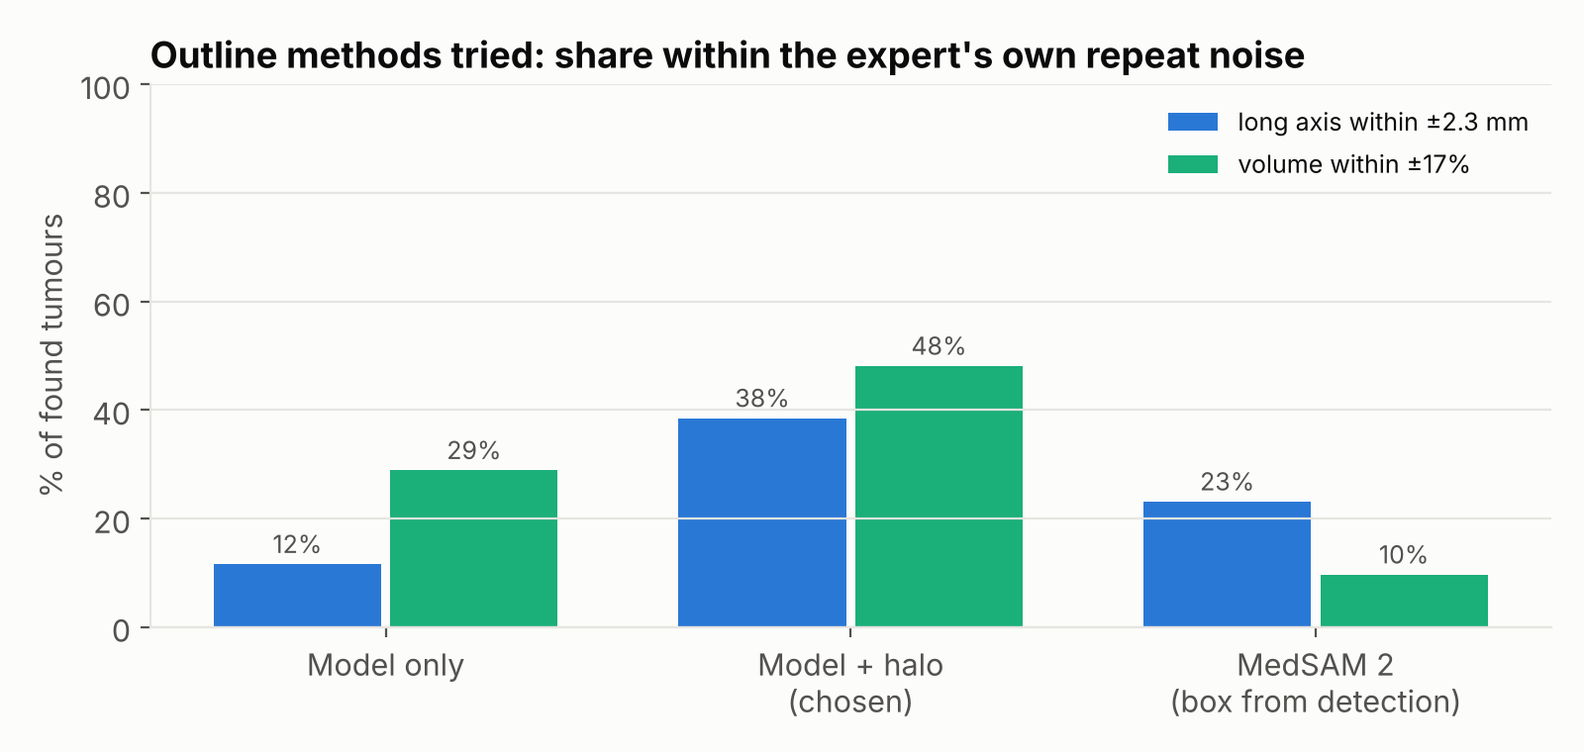
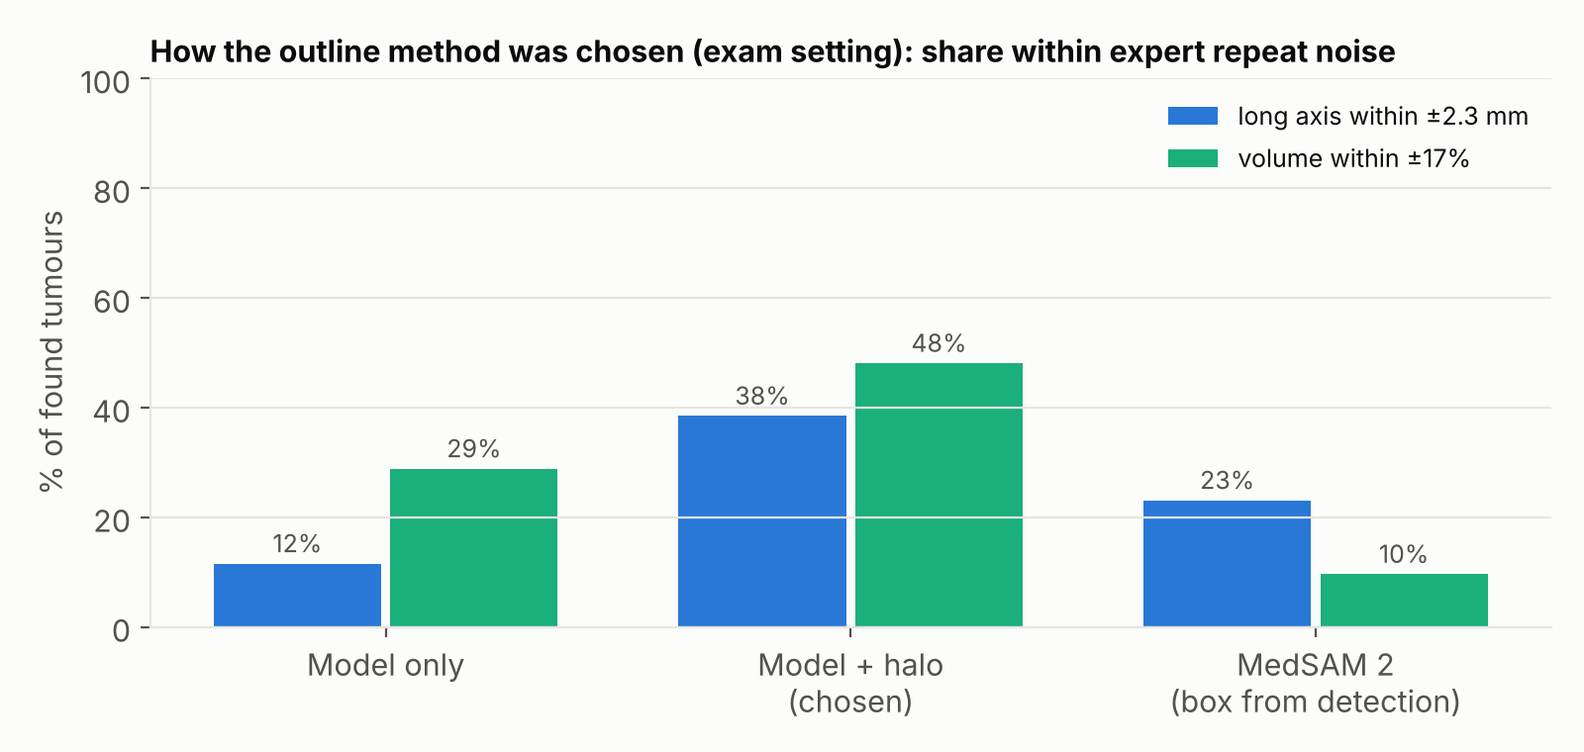
RESULTS: top = timing, quality, failure cases (Naomi's three asks) with one-line takeaways and sample sizes; quality numbers = shipped outline setting
Claude-Session: https://claude.ai/code/session_01Hn4GGnKQMt2qUCW2AmHyyQ

diff --git a/results/make_figures.py b/results/make_figures.py
@@ -63,10 +63,13 @@ def finding_figure(f):
     plt.close(fig)
 
 
-def error_figure(found, noise_mm, noise_pct):
-    """Per-tumour error vs the expert, with the expert's own repeat noise as a band."""
-    long_err = (found.halo_long - found.expert_long).sort_values().to_numpy()
-    vol_err = (100 * (found.halo_vol - found.expert_vol) / found.expert_vol).sort_values().to_numpy()
+def error_figure(noise_mm, noise_pct):
+    """Per-tumour error of the SHIPPED outline (halo scaled to core size) vs the expert,
+    with the expert's own repeat noise as a band. Source: halo_variants_found52.csv (52 found tumours)."""
+    v = pd.read_csv(HERE / "halo_variants_found52.csv")
+    long_err = v["scaled_dL"].sort_values().to_numpy()
+    vol_err = v["scaled_dV%"].sort_values().to_numpy()
+    n = len(v)
     fig, axes = plt.subplots(1, 2, figsize=(11, 4))
     for ax, err, band, unit, title in [
         (axes[0], long_err, noise_mm, "mm", "Long axis: AI draft minus expert"),
@@ -77,23 +80,23 @@ def error_figure(found, noise_mm, noise_pct):
         ax.axhspan(-band, band, color=BAND, zorder=0)
         ax.axhline(0, color=INK2, lw=0.8)
         ax.scatter(x[inside], err[inside], s=28, color=BLUE, zorder=3, edgecolor=SURFACE, linewidth=1.5,
-                   label=f"within expert repeat noise ({inside.sum()}/{len(err)})")
+                   label=f"within expert repeat noise ({inside.sum()}/{n})")
         ax.scatter(x[~inside], err[~inside], s=28, color=ORANGE, zorder=3, edgecolor=SURFACE, linewidth=1.5,
-                   label=f"outside ({(~inside).sum()}/{len(err)})")
+                   label=f"outside ({(~inside).sum()}/{n})")
         ax.set_xticks([])
-        ax.set_xlabel("52 found tumours, sorted by error")
+        ax.set_xlabel(f"{n} found tumours (28 patients), sorted by error")
         ax.set_ylabel(f"error ({unit})")
         ax.set_title(title, loc="left", fontweight="bold")
-        ax.text(len(err) - 1, -band, f"band = expert repeat noise ±{band:g} {unit}", ha="right", va="top",
+        ax.text(len(err) - 1, -band, f"band = expert repeat noise \u00b1{band:g} {unit}", ha="right", va="top",
                 fontsize=9, color=INK2)
         ax.legend(loc="upper left", frameon=False, fontsize=9)
-    fig.suptitle("The AI draft is close, but not yet as precise as the expert → Daniel confirms every outline",
-                 x=0.01, ha="left", fontsize=11, color=INK2)
+    fig.suptitle("AI first draft vs expert outline (RIDER, research use). Every draft is checked by the reviewer before it is recorded.",
+                 x=0.01, ha="left", fontsize=10.5, color=INK2)
     fig.tight_layout()
     fig.savefig(OUT / "outline_error_vs_expert.png", dpi=200)
     plt.close(fig)
-    return float(np.median(np.abs(long_err))), float(np.median(np.abs(vol_err))), \
-        float((np.abs(long_err) <= noise_mm).mean()), float((np.abs(vol_err) <= noise_pct).mean())
+    a_l, a_v = np.abs(long_err), np.abs(vol_err)
+    return float(np.median(a_l)), float(np.median(a_v)), int((a_l <= noise_mm).sum()), int((a_v <= noise_pct).sum()), n
 
 
 def method_figure(found, noise_mm, noise_pct):
@@ -115,7 +118,7 @@ def method_figure(found, noise_mm, noise_pct):
     ax.set_xticks(x, [m for m, _ in methods])
     ax.set_ylim(0, 100)
     ax.set_ylabel("% of found tumours")
-    ax.set_title("Outline methods tried: share within the expert's own repeat noise", loc="left", fontweight="bold")
+    ax.set_title("How the outline method was chosen (exam setting): share within expert repeat noise", loc="left", fontweight="bold", fontsize=11)
     ax.legend(frameon=False, loc="upper right", fontsize=9)
     fig.tight_layout()
     fig.savefig(OUT / "outline_methods.png", dpi=200)
@@ -210,15 +213,15 @@ def main():
     found = f[f.found == True]
     noise_mm, noise_pct, n_pairs = expert_noise()
     finding_figure(f)
-    lm, vm, lin, vin = error_figure(found, noise_mm, noise_pct)
+    lm, vm, lin, vin, nq = error_figure(noise_mm, noise_pct)
     method_figure(found, noise_mm, noise_pct)
     before, after, source = time_numbers()
     time_figure(before, after, source)
     print(f"time source: {source or 'none yet'}")
     ev = m[m.tumour_matched.notna()]
     print(f"expert repeat noise (n={n_pairs}): {noise_mm:.1f} mm, {noise_pct:.0f}%")
-    print(f"found {len(found)}/{len(f)}; long err median {lm:.1f} mm ({100*lin:.0f}% within); "
-          f"vol err median {vm:.0f}% ({100*vin:.0f}% within)")
+    print(f"found {len(found)}/{len(f)}; shipped outline: long err median {lm:.1f} mm ({lin}/{nq} within); "
+          f"vol err median {vm:.0f}% ({vin}/{nq} within)")
     print(f"matching: {int((ev.tumour_matched == True).sum())}/{len(ev)} tumour pairs matched; "
           f"registration error median {m.registration_error_mm.median():.1f} mm")
     def fmt(d, k):

diff --git a/RESULTS.md b/RESULTS.md
@@ -1,73 +1,63 @@
 # Results — LungMarker
 
-**Research use only. No clinical claims.**
-Status: draft, 16 Oct 2026. Engine numbers are final for the 59-scan exam; time numbers come from Daniel's own timed reviews, or the developer pilot if his don't arrive in time (marked **TBD**).
-All figures are made by `python results/make_figures.py` from the CSVs in `results/`, so they update when the results change.
+**Research use only. Not for clinical use. No clinical claims.**
+Status: draft, 18 Oct 2026. Quality and failure numbers come from a test on public data (RIDER Lung CT). Timing with the tool is pending (marked **TBD**).
+Figures are made by `python results/make_figures.py` from the CSVs in `results/`, so they update when the numbers change.
 
-## The question
+The lab asked for three things for its lab meeting and grant panel: **an honest timing comparison, a quality comparison, and clear failure cases.** They come first, in that order. Details follow below in the same order.
 
-The lab's measure of success (Naomi, Research Director): **cut Daniel's time per scan roughly in half, with no drop in measurement quality**, and results Naomi can open and defend.
-Daniel's log: **~39 min per baseline scan, ~55 per follow-up**. About **two-thirds of incoming scans are follow-ups** (Daniel), so the average incoming scan takes **~50 min** (⅓ × 39 + ⅔ × 55). Target: **~25 min per incoming scan**. His biggest time sink is **searching** for nodules (10–20 min, two full passes over 250–400 images), then matching follow-ups to the prior scan.
-So the tool attacks searching first, then outlining/measuring, matching and typing into his sheet.
+---
 
-## Summary
+## 1. Timing comparison
 
-| | Result | Verdict |
+> **Takeaway: not measured with the tool yet. Today a scan takes about 50 min on average (from 5 rows of Daniel's log); the lab's target is about 25.**
+
+| | Share of incoming scans | Before (Daniel's log) | After (with LungMarker) | Source of "after" |
+|---|---|---|---|---|
+| Baseline | ⅓ | 39 min (4 scans) | TBD | Daniel's own timed reviews (pending) |
+| Follow-up | ⅔ | 55 min (1 scan) | TBD | Daniel's own timed reviews (pending) |
+| **Per incoming scan (weighted)** | | **~50 min** | **TBD** | |
+
+- **"Before" is thin:** 5 rows of Daniel's log, and the follow-up figure is a single scan carrying two-thirds of the weight. The ⅔ follow-up share is Daniel's estimate.
+- **"After" comes from Daniel's own timed reviews** (he is timing them now). If they don't arrive before hand-in, we show a developer pilot instead and label it as an estimate, not a measurement of the real user.
+- Both clocks use Daniel's definition: the whole process for one scan, without long breaks. Details and protocol: [section 4](#4-timing-details).
+
+## 2. Quality comparison
+
+> **Takeaway: on 52 tumours from 28 patients (public data), the AI's first draft is close to the expert on average but not as precise per tumour, so every measurement is checked and confirmed by the reviewer before it is recorded.**
+
+| What we compared | Sample | Result |
 |---|---|---|
-| Finding the tumour | 52 / 59 scans (88%) | Works, with a known blind spot |
-| Blind spot | all 7 misses are central tumours touching the hilum / mediastinum | Fails → mandatory "check the central areas" step in the app |
-| Outline + measurements | long axis error median 2.8 mm, volume 20%; ~40–50% within the expert's own repeat noise | Partial → a draft Daniel confirms, not a final value |
-| Lobe | 100% agree with the expert outline's lobe | Works |
-| Matching to the prior scan | 24 / 24 tumour pairs correct | Works (small sample) |
-| Export to Daniel's sheet | 18 columns, exact order and formats; edit trail sheet; 23/23 automated checks | Works (tested on synthetic data; real-file check **TBD**) |
-| Time saved | before ~50 min per incoming scan (weighted); after: **Daniel's own timed reviews (pending)**, else developer-pilot estimate (TBD) | **TBD** |
+| **Finding:** was the expert-marked tumour found, with no hint? | 59 scans, 31 patients | **52 / 59 scans (88%)** |
+| **Long axis:** AI draft vs expert outline | 52 tumours, 28 patients | median error **3.0 mm**, no systematic bias (−0.3 mm); **20 / 52** within the expert's own repeat variation (2.3 mm) |
+| **Volume:** AI draft vs expert outline | 52 tumours, 28 patients | median error **14%**, no systematic bias (+0.5%); **27 / 52** within the expert's own repeat variation (17%) |
+| **Matching** a tumour to the earlier scan | 24 patient pairs | **24 / 24** paired correctly |
+| **Lobe** | 52 tumours | agrees with the expert outline's lobe in **52 / 52** |
+| **Small nodules (< 8 mm), same nodule on two scans 15 min apart** (no expert outline) | 84 nodule pairs, 22 patients | diameter differs by a median **0.5 mm**; volume by **~30%** |
 
-## 1. What works
+- **Yardstick:** the expert's own variation between two scans of the same patient taken 15 minutes apart (median 2.3 mm long axis, 17% volume; 28 patients).
+- **What this measures:** the AI's *first draft*. What goes into the lab's sheet is the reviewer's *confirmed* value; its quality was not measured here. The edit trail records every change, so it can be measured on real use.
+- **The test tumours are large** (13–93 mm, median 43 mm). The lab measures nodules from 4 mm, so small-nodule accuracy is not established by this test.
 
-### Finding
-![Found vs missed](results/figures/finding_found_vs_missed.png)
+## 3. Failure cases
 
-- The AI found the expert-marked tumour in **52 of 59 scans (88%)**: 48/53 solid, 4/6 part-solid. It runs ahead of review (batch), ~49 s per scan on a free Colab GPU.
-- Other candidates: median 3 per scan. **82% of them are found again in the repeat scan** taken 15 min later (a proxy for "not random noise").
+> **Takeaway: the AI misses some central tumours and draws some outlines far off; the app is built so the reviewer catches these, and some cases have not been tested at all.**
 
-### Matching follow-ups
-- In every pair where the tumour was found in both scans, it was **paired correctly (24 / 24)**. Lung alignment error at the tumour: median 2.9 mm.
-- The app shows the match as a **suggestion**; Daniel records it only when certain (his rule). Approve stays blocked until every prior nodule is matched or confirmed "Not found".
-- **Limit:** in the side-by-side view, prior and current are locked together (centre, zoom, slice scrolling) by aligning on the **matched pair**, not on the engine's lung registration, which the engine doesn't export yet. So **a wrong match also misaligns the two views.** A soft "Check this match" warning (different lobe, size > 50% different, registration disagrees) is the guard for now. Next step: export each prior nodule's registered position from the engine, to lock the views on the real registration and check any hand-picked match.
+| Failure | How often (sample) | What the app does about it |
+|---|---|---|
+| **Central tumours touching the hilum or mediastinum are missed**, even large ones (14–52 mm) | 7 / 59 scans, 4 / 31 patients; all of the AI's misses | Approve is blocked until the reviewer ticks "I checked the hilum and mediastinum" (one click to the mediastinal window, quick Add nodule). An automatic "check here" flag was tried and dropped: it caught 4 of the 7 but also flagged 49 of the other 52 scans. |
+| **Outline far off:** long axis more than 5 mm from the expert | 19 / 52 tumours (14 patients): 13 drawn too small, 6 too large | Nothing is recorded until the reviewer confirms the outline; Erase / Draw / move points to fix it. The 4 small faint tumours drawn much too small now show "AI unsure about the edges"; the larger misses are not flagged. |
+| **Small-nodule volume is approximate** | ~30% difference between repeat scans for nodules < 8 mm (84 pairs) | Diameters are the reliable number for small nodules; volume is recorded only after the reviewer confirms the outline. |
+| **A wrong follow-up match** would also misalign the side-by-side view | Not seen in the test (24 / 24 correct), but possible | The match is only a suggestion the reviewer picks; a "Check this match" warning flags a different lobe, a > 50% size change or disagreement with the alignment. |
+| **Not tested** | — | **Ground-glass nodules** (none in this data set; planned on the public LNDb set). **False alarms** (the data marks one tumour per scan; only a proxy: 82% of AI marks reappear on the repeat scan). **The lab's own scans** (development used public data only). |
 
-### Review and export
-- Daniel sees every AI mark on the image, can accept / reject, erase part of an outline (e.g. a vessel tail), redraw it, or add a missed nodule. Volume is recorded **only after he confirms the outline**.
-- The export is his master sheet's 18 columns, plus an **edit trail** (AI draft vs his final value, who approved, when) and a read-me sheet with the research-use statement.
-- Naomi can open Results and see each nodule's final outline next to the AI's original, with the full edit history.
+---
 
-## 2. What fails (and what we did about it)
+## 4. Timing details
 
-### Central tumours are missed
-All 7 misses (4 patients) are **central tumours touching the hilum or mediastinum**, 14–52 mm, with model probability ~0 inside the tumour. This is a limit of the model, not of our settings. Daniel told us central tumours are common in their cohort, so this matters.
-→ **The app does not let a scan be approved until Daniel ticks "I checked the hilum and mediastinum"**, with a one-click switch to the mediastinal window and an "Add nodule" button.
-→ **We tried an automatic "possible central mass, check here" flag (3 ideas, ~2 h) and did not keep it.** Two ideas flagged none of the missed tumours (3 of 4 sit inside the lung outline, not in a dent). The best one flagged 4 of the 7 missed scans but also raised 107 false flags on the other 52 scans (49 of 52 flagged), so it would teach Daniel to ignore it. Code and numbers: `engine/experiments/`. The manual check stays.
+**Headline = minutes per incoming scan, weighted by the lab's real mix (⅓ baseline, ⅔ follow-up).** Baseline and follow-up are also shown on their own, because the tool helps them differently (follow-ups add matching to the earlier scan). Naomi's target is half: ~20 min baseline, ~28 min follow-up, ~25 min per incoming scan.
 
-### Outlines are not yet as precise as an expert
-![Error vs expert](results/figures/outline_error_vs_expert.png)
-
-- The bar is the expert's own variation between two scans 15 min apart: **2.3 mm long axis, 17% volume** (median, 28 patients).
-- AI draft: **long axis median error 2.8 mm (no bias, +0.8), volume 20% (+5%)**. 38% of tumours are within the expert's noise on the long axis, 48% on volume. A few are far off (vessel tails, irregular tumours).
-- → The draft saves drawing time, but **Daniel must check every outline**. That is how the app is built: confirm-before-record.
-
-![Methods tried](results/figures/outline_methods.png)
-
-We tried three outline methods on the same 52 tumours and kept the best ("model + halo"). The model alone draws too tight; MedSAM 2 with a box from the detection overshoots.
-
-### Other known weak spots
-- **Vessel tails** make 4 long axes too long → one stroke of the Erase brush fixes it in the app.
-- **Key slice** within 2 slices of the expert's choice in 62% of cases (often two near-equal slices). Daniel picks the sharpest one anyway.
-
-## 3. How we measured time saved
-
-**Main result: Daniel's own timed reviews, if they arrive before hand-in. Otherwise the estimate in 3.2 is the time result, labelled as an estimate.**
-Either way the headline is minutes per incoming scan, weighted by the lab's real mix (⅓ baseline, ⅔ follow-up), with baseline and follow-up also shown on their own.
-
-### 3.1 Daniel's own timed reviews
+### 4.1 Daniel's own timed reviews (main result)
 
 **Status: pending.** Daniel said he will keep timing his reviews and send a before/after comparison.
 
@@ -79,12 +69,10 @@ Either way the headline is minutes per incoming scan, weighted by the lab's real
 
 When his numbers arrive:
 - Put them in `results/daniel_time_log.csv` (one row per scan: `timepoint`, `phase` = before / after, `minutes`, `note`) and run `python results/make_figures.py`. The chart and printed numbers switch to his data automatically; his "before" rows replace the old log figures if he sends any.
-- Fill this table, write his numbers into the summary table and the deck, and move 3.2 below them as supporting evidence.
-- Say how many scans he timed and over what period, and whether "before" and "after" use the same definition (whole process, no long breaks). A handful of scans is a first signal, not a study.
+- Fill this table and section 1, and change the section 1 takeaway to what the numbers show, e.g. "In N timed scans, …". Move 4.2 below as supporting evidence.
+- State how many scans he timed and over what period, and whether "before" and "after" use the same definition. A handful of scans is a first signal, not a study.
 
-### 3.2 Estimate (if Daniel's numbers don't arrive in time)
-
-Baseline and follow-up are shown separately because the tool helps them differently (follow-ups add matching to the prior scan).
+### 4.2 Estimate (only if Daniel's numbers don't arrive in time)
 
 | | Share of incoming scans | Before (Daniel's log) | Target (half) | After (developer pilot, app timer) | Saved |
 |---|---|---|---|---|---|
@@ -96,22 +84,73 @@ Weighted = ⅓ × baseline + ⅔ × follow-up, computed the same way for before 
 
 ![Time](results/figures/time_before_after.png)
 
-**Protocol for the estimate:**
+**Protocol:**
 - **Before:** Daniel's log, column "Minutes on scan". His definition covers the whole process: loading the study, choosing the series, finding, measuring, outlining, typing into the sheet.
-- **After:** the app's built-in timer, **active minutes**: time from opening the scan to approving it, summed over visits, paused after 2 min without input or when the tab is hidden. Daniel asked for this definition (17 Oct: "Minutes on scan" should not include long breaks), and it is what the app writes into "Minutes on scan". The time the scan was open is also kept ("open" minutes) and reported next to it. Logged per scan in `results/time_log.csv`.
-- **Which clocks are compared:** Daniel's "before" is what he typed into his log by hand; we can't tell exactly how he handled breaks in the past. If he counted some idle time, active minutes slightly overstate the saving, so we show open minutes too.
-- **Who:** the developer, on public RIDER scans (baseline + follow-up). The developer knows the tool better than a new user would, but is not a trained reader like Daniel, so this is an estimate, not a measurement of Daniel.
+- **After:** the app's built-in timer, **active minutes**: time from opening the scan to approving it, summed over visits, paused after 2 min without input or when the tab is hidden. Daniel asked for this definition (17 Oct: "Minutes on scan" should not include long breaks), and it is what the app writes into "Minutes on scan". The time the scan was open is also kept ("open" minutes) and reported next to it.
+- **Which clocks are compared:** Daniel's "before" was typed into his log by hand; we can't tell exactly how he handled breaks in the past. If he counted some idle time, active minutes slightly overstate the saving, so we show open minutes too.
+- **Who (estimate only):** the developer, on public RIDER scans. The developer knows the tool better than a new user would, but is not a trained reader like Daniel.
 
-**How solid the "before" number is:** so far we have only the last 5 rows of Daniel's log (baseline 38, 49, 30, 37; follow-up 55). **The follow-up figure is a single scan, and follow-ups carry ⅔ of the weight**, so the ~50 min mostly rests on one data point. The full column has been requested; the numbers will be updated when it arrives. The ⅔ share is Daniel's estimate ("about two-thirds").
+**How solid the "before" number is:** only the last 5 rows of Daniel's log (baseline 38, 49, 30, 37; follow-up 55). The follow-up figure is a single scan and carries ⅔ of the weight, so the ~50 min mostly rests on one data point. The full column has been requested.
 
-## 4. Limits — said out loud
+## 5. Quality details
 
-- **RIDER marks one tumour per scan**, so false alarms can't be counted directly; the 82% repeat-scan agreement is only a proxy.
-- **No ground-glass tumours in RIDER** — Daniel's hardest cases. A test on the public LNDb set (27 GGO + 46 part-solid ≥ 4 mm) is planned; its licence only allows sharing numbers, not images. *(TBD)*
-- RIDER is a practice set (large, mostly solid tumours); the lab's real cohort may differ.
-- The follow-up in RIDER is a repeat scan 15 min later: it tests matching, not growth.
-- Time "after" comes from a small pilot, not a study.
-- The detector (TotalSegmentator `lung_nodules`) was partly trained on LIDC-IDRI, not RIDER, so RIDER is unseen data for it.
+**Test set.** RIDER Lung CT (public, The Cancer Imaging Archive): 31 patients, each scanned twice 15 minutes apart, 59 scans with an expert outline of one tumour. The whole pipeline runs with no hint. Measurements are taken the way Daniel takes them (long axis on the slice where the tumour is largest, perpendicular short axis, volume from the outline), on both the AI's and the expert's outline. The detector was not trained on RIDER.
+
+### Finding
+![Found vs missed](results/figures/finding_found_vs_missed.png)
+
+- Expert tumour found in **52 of 59 scans (88%)**: 48 / 53 solid, 4 / 6 part-solid. The AI runs before review, ~49 s per scan on a free Colab GPU.
+- Other AI marks: median 3 per scan. 82% of them reappear on the repeat scan taken 15 min later. This is only a proxy for "not a false alarm", because RIDER doesn't mark other nodules.
+
+### Outline and measurements
+![Error vs expert](results/figures/outline_error_vs_expert.png)
+
+- Shipped outline setting (rim width scaled to the size of the AI's core): **long axis median error 3.0 mm (bias −0.3 mm), 20 / 52 within 2.3 mm; volume median error 14% (bias +0.5%), 27 / 52 within 17%**; median overlap with the expert outline (Dice) 0.76.
+- No systematic bias, but individual tumours vary around the expert's value more than the expert varies between two scans. So the draft saves drawing time, and **every outline is checked**: volume is recorded only after the reviewer confirms it (Daniel's own rule).
+
+![Methods tried](results/figures/outline_methods.png)
+
+How the method was chosen (first exam, same 52 tumours): the model's own outline is too tight (long axis 6 mm short on median), MedSAM 2 with a box from the detection overshoots (+5.8 mm), and adding a rim around the model's core fixed the bias. Later the rim width was tuned (four variants compared on these 52 tumours, `results/halo_variants_found52.csv`); a more adaptive variant did better here (24 / 52 within 2.3 mm) but grew small nodules along vessels on other scans, so it was not shipped. Because the settings were compared on the same tumours, these numbers are somewhat optimistic; an independent test (LNDb) is planned.
+
+### Matching and lobe
+- In every pair where the tumour was found in both scans it was **paired correctly (24 / 24)**. Lung alignment error at the tumour: median 2.9 mm (max 13.9 mm).
+- Note: the RIDER "follow-up" is a repeat scan 15 minutes later, so this tests matching, not growth.
+- Lobe agrees with the expert outline's lobe in 52 / 52.
+
+### Small nodules (repeatability, no expert outline)
+- Same nodule on the two scans 15 min apart: 84 pairs < 16 mm (median 7 mm), 22 patients. Long axis: median difference 0.5 mm (72 / 84 within 2.3 mm). Volume: median 28% difference (32% for nodules < 8 mm). For small nodules, the diameters are reliable and the volume is approximate.
+
+## 6. Failure details
+
+### Central tumours are missed
+All 7 misses (4 patients) are **central tumours touching the hilum or mediastinum**, 14–52 mm, with the model giving ~0 probability inside the tumour, so this is a limit of the model, not of our settings. Daniel told us central tumours are "common enough" in their cohort, so this matters for the lab.
+- **What the app does:** Approve is blocked until the reviewer ticks "I checked the hilum and mediastinum", with a one-click switch to the mediastinal window and an Add nodule button.
+- **Automatic flag tried, not kept** (3 ideas, ~2 h). Two flagged none of the missed tumours (3 of the 4 lie inside the lung outline, not in a dent). The best flagged 4 of the 7 missed scans but also raised 107 false flags on the other 52 scans (49 of 52 flagged), which would teach the reviewer to ignore it. Code and numbers: `engine/experiments/`. A likely real fix (a second model trained on lung-cancer outlines) did not fit this week.
+
+### Outlines far off
+- 19 / 52 long axes are more than 5 mm off (shipped setting): 13 too small, 6 too large.
+- **Too small, small tumours (4):** the model marked only a small core of a fainter tumour. Since 17 Oct the engine flags these ("AI unsure about the edges: may be larger than drawn"); it catches all 4 and fires on 12% of all AI marks. Tuned on only 4 cases, so its true catch rate is uncertain.
+- **Too small, large tumours (9):** not flagged. The reviewer has to see it.
+- **Too large (6):** causes seen in the first exam were a rim drawn a little too wide or a vessel tail running off the nodule. One stroke of the Erase brush removes a tail.
+- Key slice within 2 slices of the expert's choice in 62% of cases (often two near-equal slices); the reviewer can pick another.
+
+### Follow-up view
+In the side-by-side view, the earlier and current scans are locked together (centre, zoom, slice scrolling) by aligning on the **matched pair**, not on the engine's lung alignment, which the engine doesn't export yet. So **a wrong match also misaligns the two views.** The "Check this match" warning (different lobe, size > 50% different, alignment disagrees) is the guard for now. Next step: export each earlier nodule's aligned position from the engine.
+
+## 7. Limits
+
+- **Public practice data, not the lab's scans:** RIDER is mostly large, solid tumours (13–93 mm); the lab measures from 4 mm, and its cohort may differ.
+- **No ground-glass nodules** in RIDER, which are Daniel's hardest cases. A test on the public LNDb set (27 ground-glass + 46 part-solid nodules ≥ 4 mm) is planned; its licence allows sharing numbers only, not images. *(TBD)*
+- **False alarms** can't be counted directly (one marked tumour per scan); the 82% repeat-scan agreement is only a proxy.
+- **Settings tuned on the test tumours:** the outline settings were compared on the same 52 tumours, so the quality numbers are somewhat optimistic.
+- **The RIDER follow-up is a same-day repeat scan:** it tests matching, not growth.
+- **Timing:** a small number of timed scans (or a developer pilot), not a study.
+- **What we measured is the AI's first draft,** not the reviewer's confirmed values that go into the sheet.
+
+## What the app does (for reference)
+- The reviewer sees every AI mark on the image, accepts or rejects it, fixes the outline (move, add or delete points, Erase, Draw), or adds a missed nodule. Volume is recorded **only after the reviewer confirms the outline**.
+- The export is the lab's master sheet (18 columns, same order and formats), plus an **edit trail** (AI draft vs final value, who approved, when) and a read-me sheet with the research-use statement. Checked on real exports from the live app and by 30 automated checks.
+- Naomi can open Results and see each nodule's final outline next to the AI's original, with the full edit history.
 
 ## Raw data
-`results/finding_exam_all59.csv` (one row per scan), `results/finding_exam_matching.csv` (one row per patient pair), `results/expert_baseline.csv` (expert test-retest), `results/finding_exam_summary.txt`.
+`results/finding_exam_all59.csv` (one row per scan), `results/finding_exam_matching.csv` (one row per patient pair), `results/halo_variants_found52.csv` (outline settings on the 52 found tumours; shipped = `scaled_*`), `results/small_nodule_repeatability.csv`, `results/expert_baseline.csv` (expert test-retest), `results/central_check_blob_all59.csv`, `results/faint_flag_candidates.csv`, `results/finding_exam_summary.txt`.
